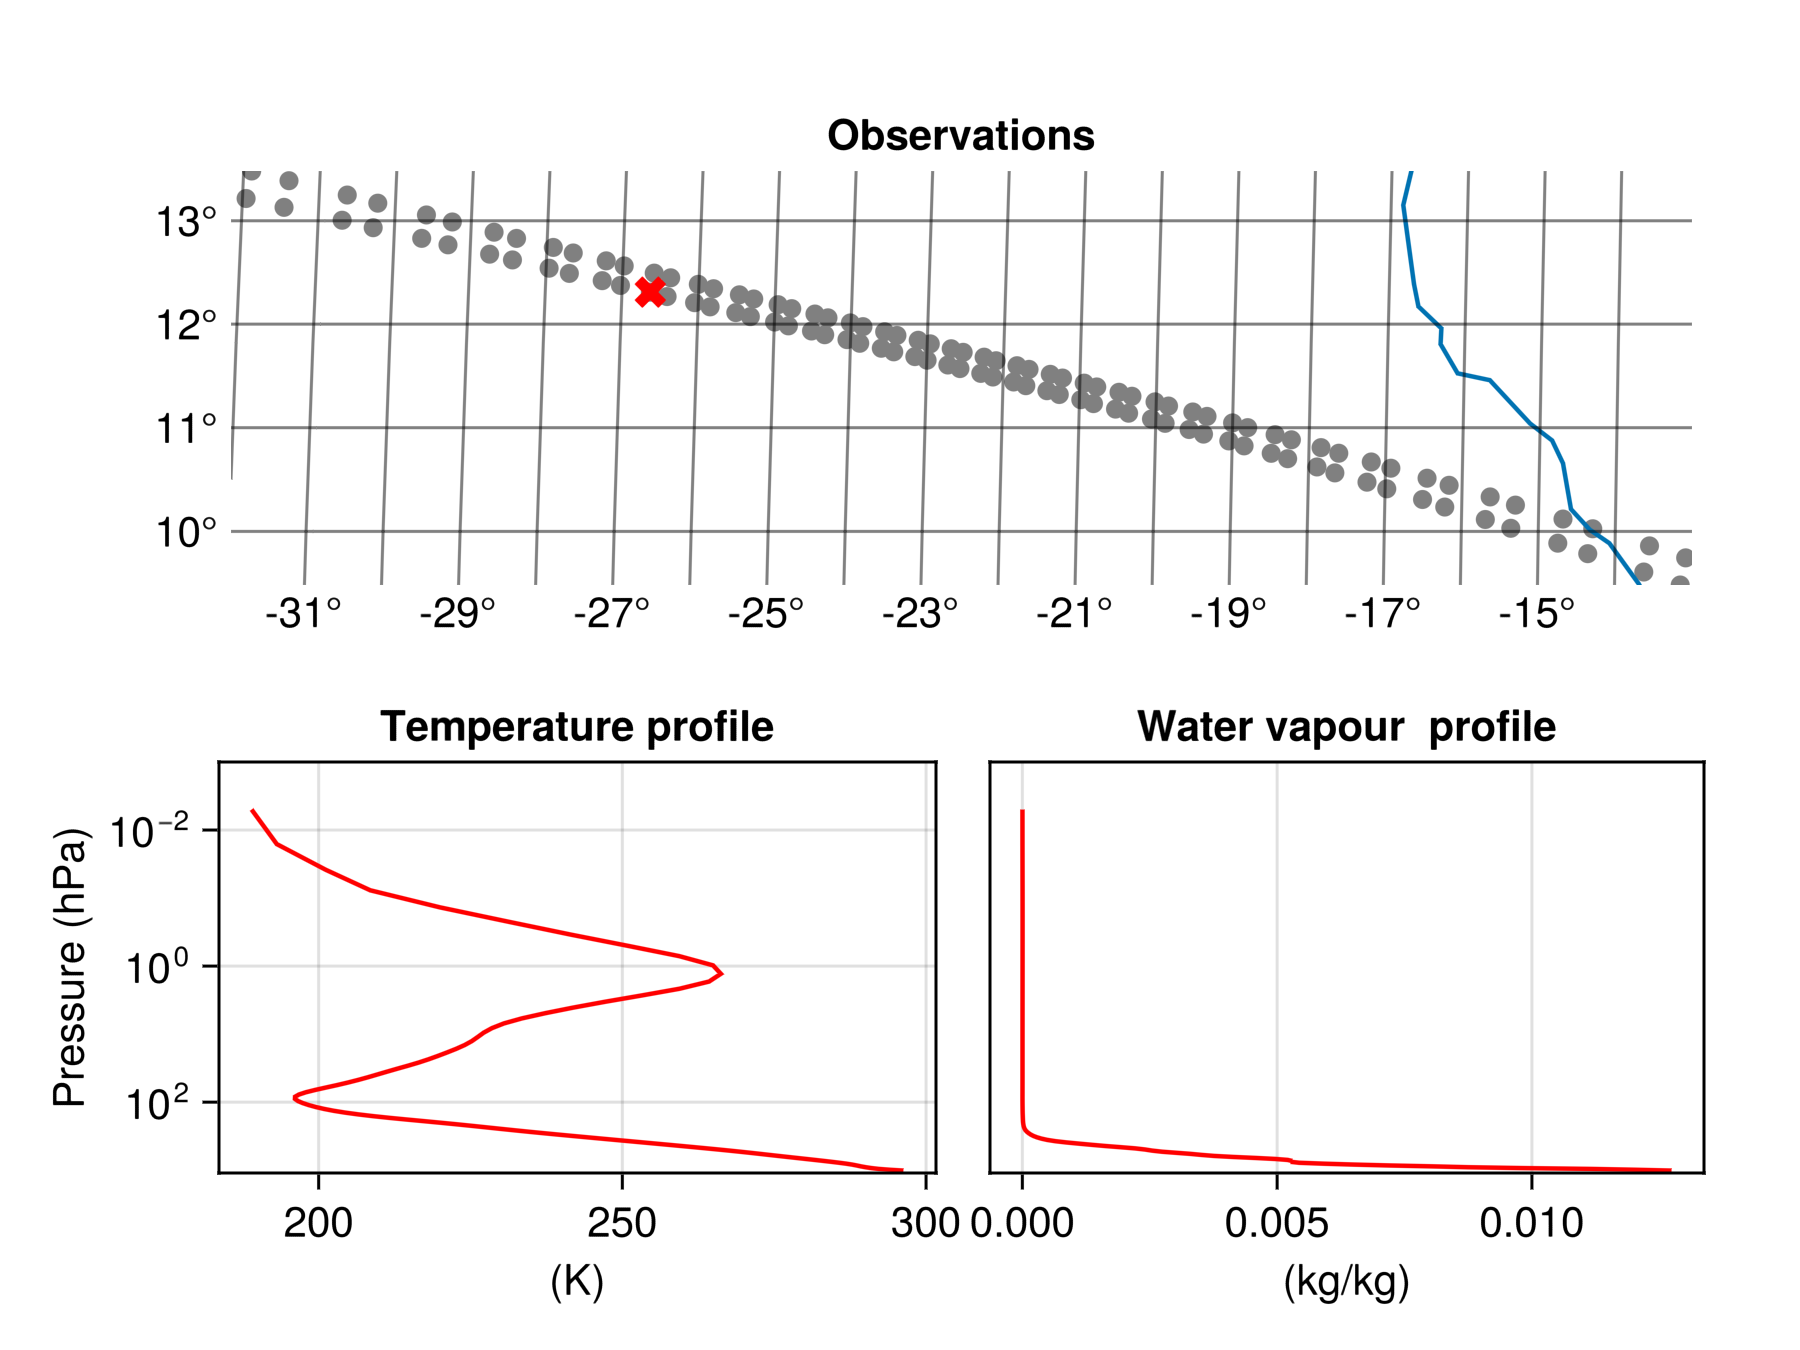
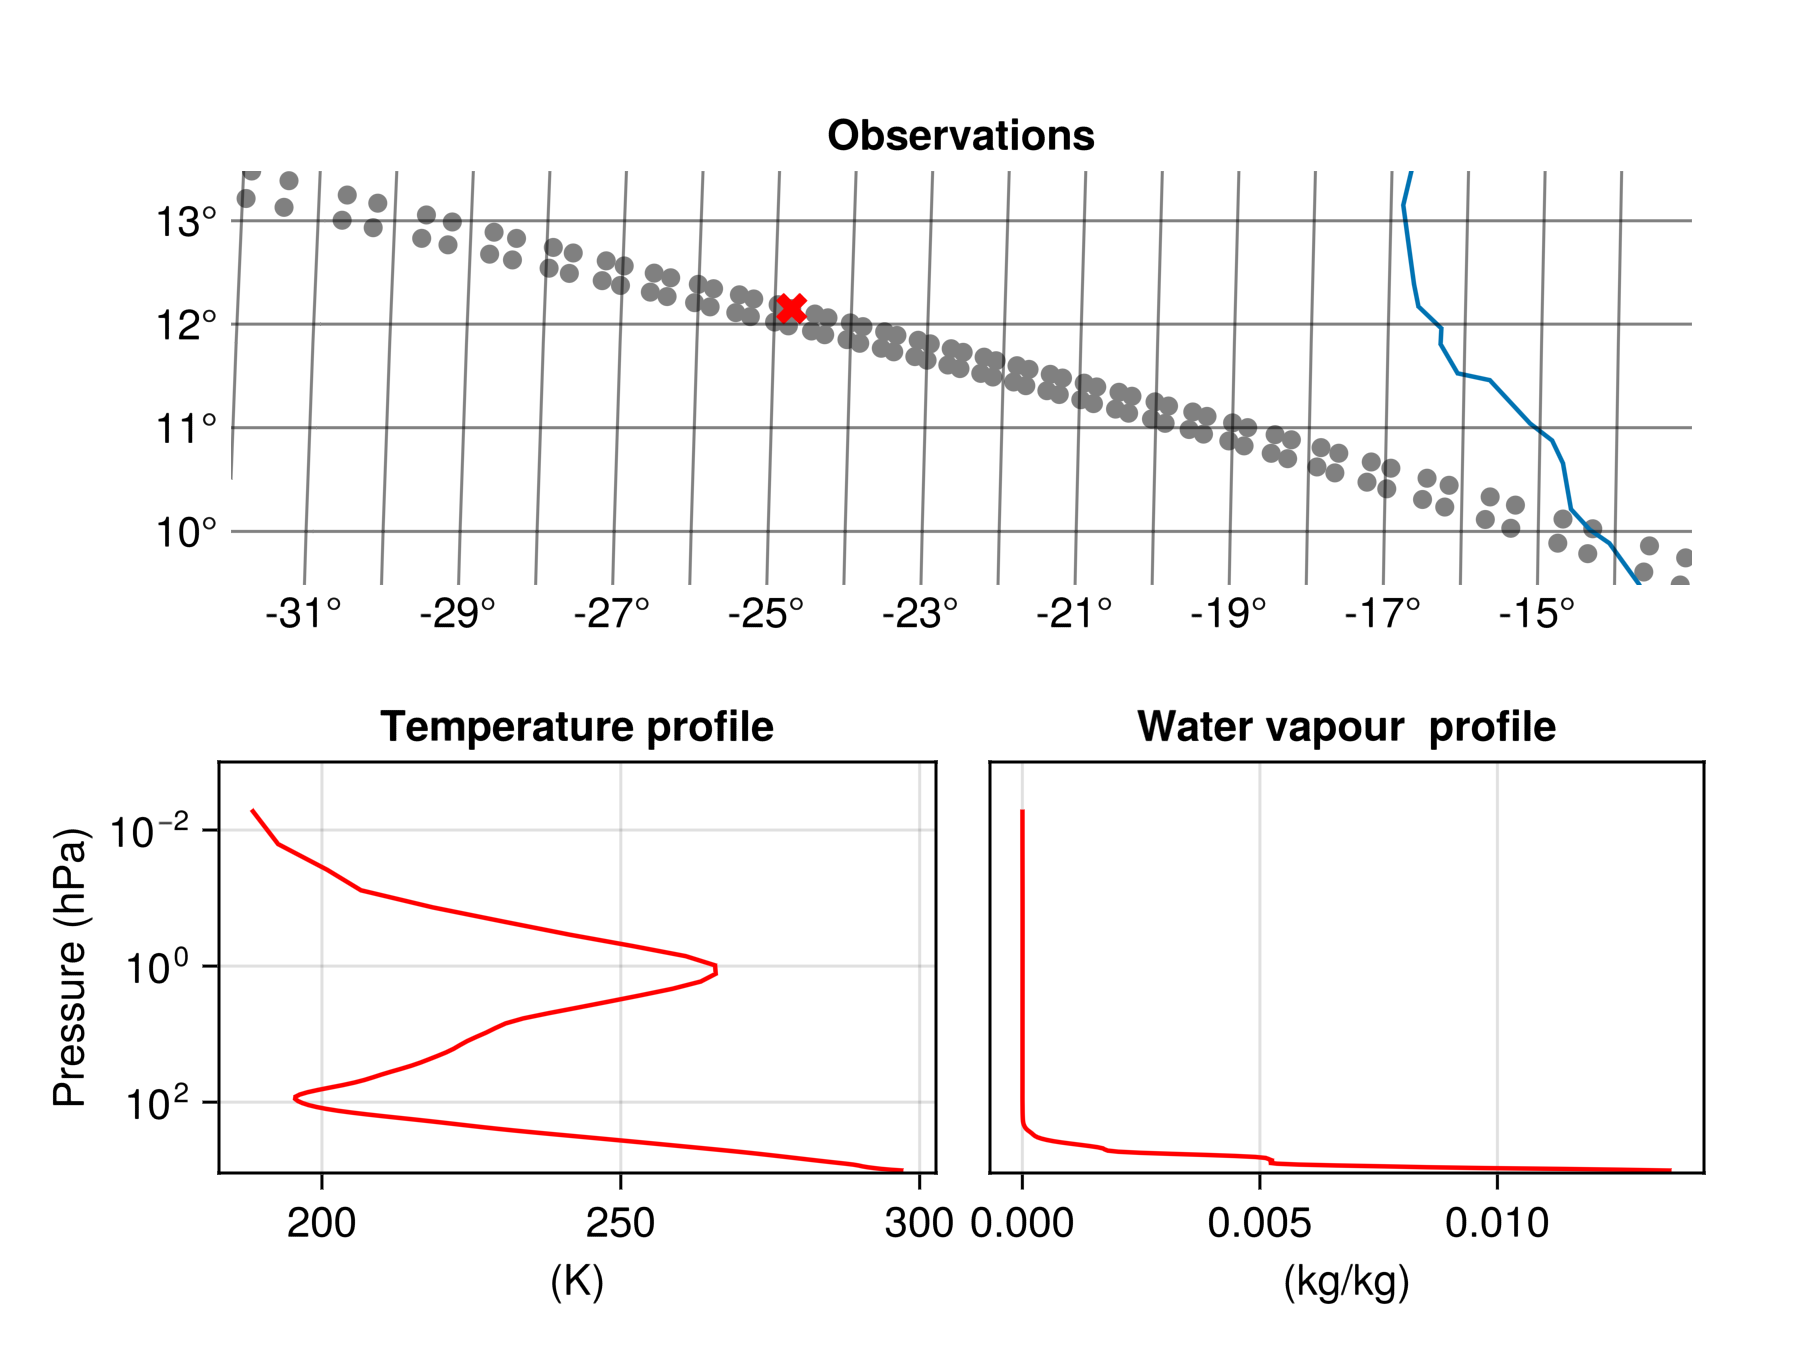
relax thresholds

diff --git a/docs/src/IASI.md b/docs/src/IASI.md
@@ -227,11 +227,12 @@ temperature, humidity, selected_point  = let
     humidity_var = cfvariable(ds, "fg_atmospheric_water_vapour", maskingvalue = NaN)
     qi_humidity_var = cfvariable(ds, "fg_qi_atmospheric_water_vapour", maskingvalue = NaN)
     # keep only soundings where the quality indicators are low
+    # thresholds can be relaxed to increase data yield
     # only look at selected data_record_index to save time
-    good_retrievals = findall(qi_temp_var[:,data_record_index] .< 1 
-                               .&& qi_humidity_var[:,data_record_index] .< 2)
-    # we select the first retrieval for plotting
-    selected_point = good_retrievals[1]
+    good_retrievals = findall(qi_temp_var[:,data_record_index] .< 2 
+                               .&& qi_humidity_var[:,data_record_index] .< 4)
+    # we select the 60th retrieval for plotting
+    selected_point = good_retrievals[60]
     
     temp_var[:, selected_point, data_record_index], 
     humidity_var[:, selected_point, data_record_index], selected_point
